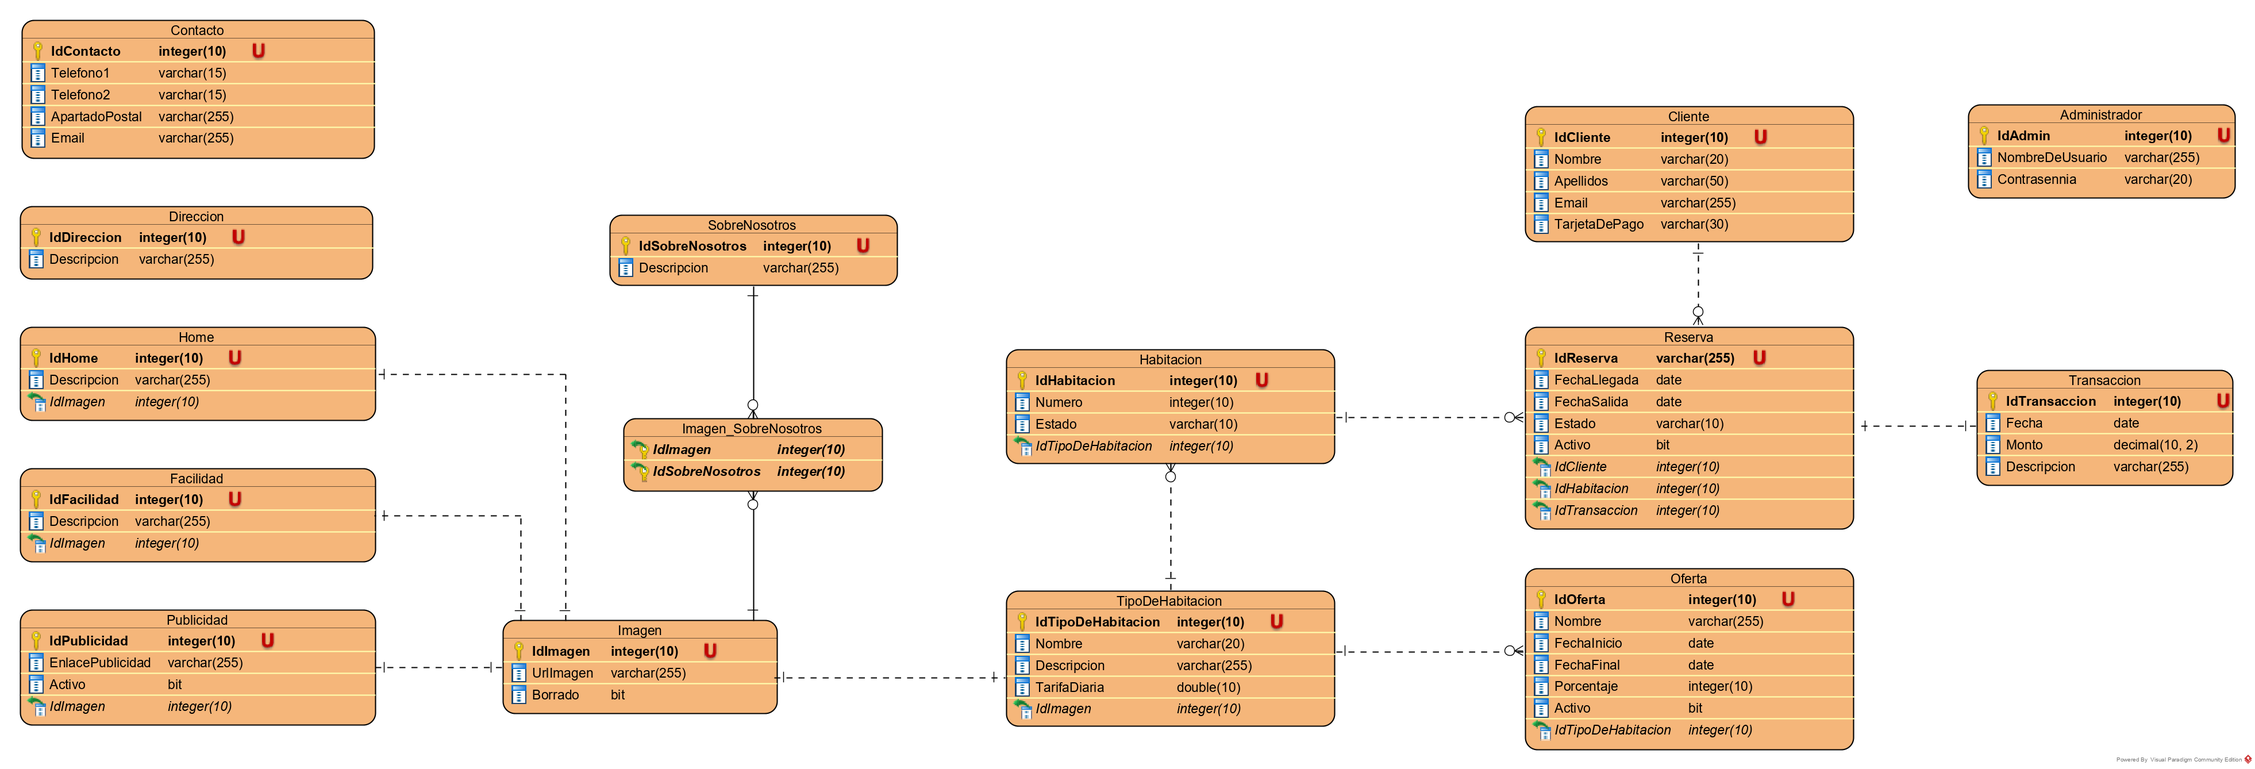
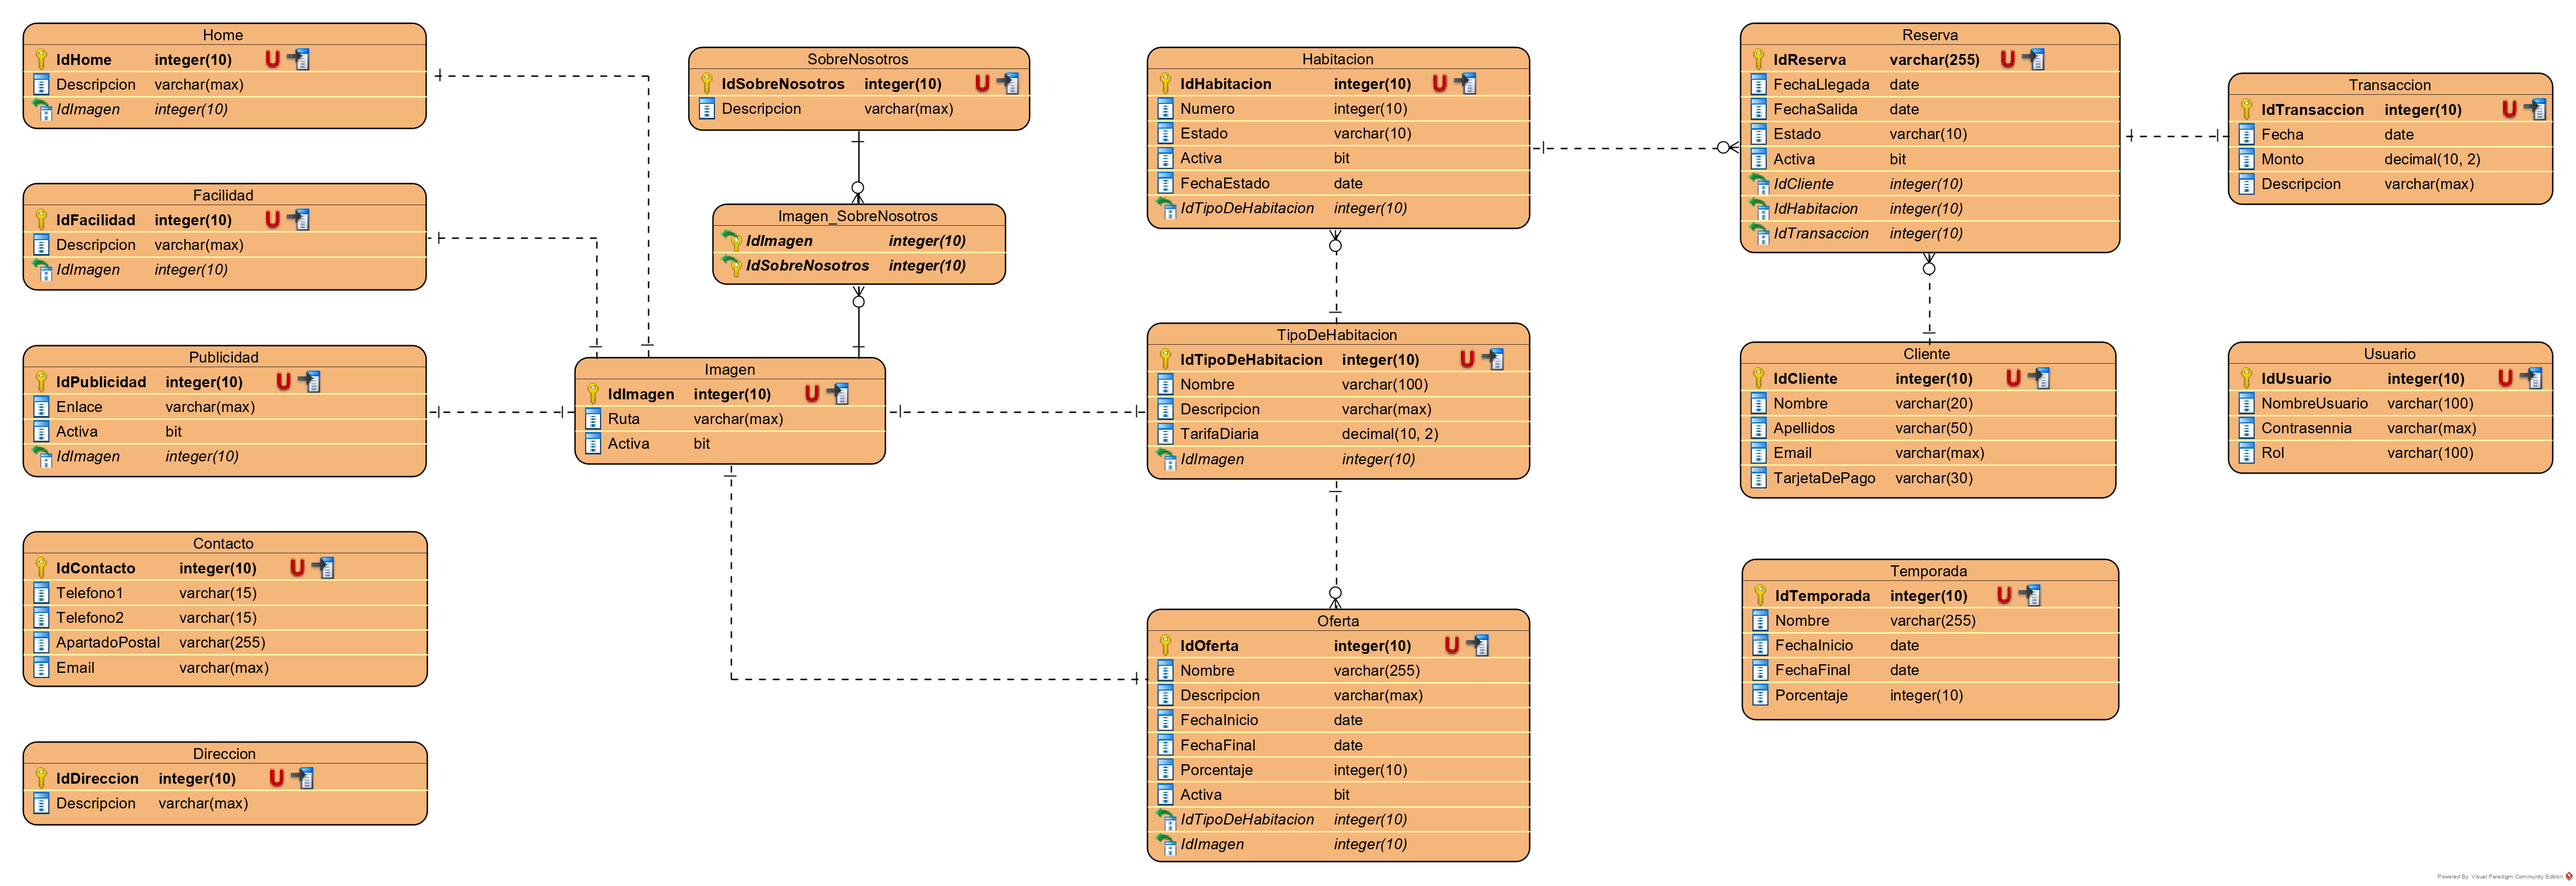
Modificaciones en entidades y modelos

diff --git a/2025_GRUPO_JAHE_BACKEND/Infraestructura/Repositorios/PublicidadRepositorio.cs b/2025_GRUPO_JAHE_BACKEND/Infraestructura/Repositorios/PublicidadRepositorio.cs
@@ -5,18 +5,25 @@ using System.Text;
 using System.Threading.Tasks;
 using Dominio.Entidades;
 using Dominio.Interfaces;
+using Infraestructura.Nucleo;
 using Infraestructura.Persistencia;
 using Microsoft.EntityFrameworkCore;
 
 namespace Infraestructura.Repositorios
 {
-    public class PublicidadRepositorio : IPublicidadRepositorio
+    public class PublicidadRepositorio : BaseRepositorio<Publicidad>, IPublicidadRepositorio
     {
         private readonly ContextoDbSQLServer _contexto;
 
-        public PublicidadRepositorio(ContextoDbSQLServer contexto)
+        public PublicidadRepositorio(ContextoDbSQLServer contexto) : base(contexto)
         {
             _contexto = contexto;
+        }
+
+        public new async Task CrearAsync<Publicidad>(Publicidad entity) where Publicidad : class
+        {
+            if (entity == null) throw new ArgumentNullException(nameof(entity));
+            await _contexto.Set<T>().AddAsync(entity);
         }
 
         public async Task<List<Publicidad>> VerPublicidadesActivas()
@@ -25,7 +32,7 @@ namespace Infraestructura.Repositorios
             {
                 var publicidades = await this._contexto.Publicidades
                     .Include(publicidades => publicidades.Imagen)
-                    .Where(publicidad => publicidad.Imagen!.Eliminado == false)
+                    .Where(publicidad => publicidad.Imagen!.Activa == false)
                     .Where(publicidad => publicidad.Activo == true)
                     .ToListAsync();
 

diff --git a/2025_GRUPO_JAHE_BACKEND/Aplicacion/Servicios/HabitacionServicio.cs b/2025_GRUPO_JAHE_BACKEND/Aplicacion/Servicios/HabitacionServicio.cs
@@ -19,7 +19,7 @@ namespace Aplicacion.Servicios
             this._habitacionRepositorio = habitacionRepositorio;
         }
 
-        public async Task<ResultadoConsultaHabitacionDTO> ConsultarDisponibilidadDeHabitaciones(int[] idTiposHabitacion, 
+        public async Task<RespuestaConsultaTablaDTO<HabitacionConsultaDTO>> ConsultarDisponibilidadDeHabitaciones(int[] idTiposHabitacion, 
             DateTime fechaLlegada, DateTime fechaSalida, int numeroDePagina, int maximoDeDatos, bool irALaUltimaPagina)
         {
             var resultado = await this._habitacionRepositorio.ConsultarDisponibilidadDeHabitaciones(idTiposHabitacion,
@@ -28,9 +28,9 @@ namespace Aplicacion.Servicios
             if (resultado.habitaciones == null)
                 throw new Exception("No se encontraron datos.");
 
-            return new ResultadoConsultaHabitacionDTO
+            return new RespuestaConsultaTablaDTO<HabitacionConsultaDTO>
             {
-                Habitaciones = resultado.habitaciones.Select(h => new HabitacionConsultaDTO 
+                Lista = resultado.habitaciones.Select(h => new HabitacionConsultaDTO 
                     {
                         IdHabitacion = h.IdHabitacion,
                         Numero = h.Numero,

diff --git a/2025_GRUPO_JAHE_BACKEND/Dominio/Entidades/Contacto.cs b/2025_GRUPO_JAHE_BACKEND/Dominio/Entidades/Contacto.cs
@@ -2,9 +2,6 @@
 using System.Collections.Generic;
 using System.ComponentModel.DataAnnotations;
 using System.ComponentModel.DataAnnotations.Schema;
-using System.Linq;
-using System.Text;
-using System.Threading.Tasks;
 
 namespace Dominio.Entidades
 {
@@ -13,15 +10,18 @@ namespace Dominio.Entidades
     {
         [Key]
         [DatabaseGenerated(DatabaseGeneratedOption.Identity)]
-        [Column("IdContacto")]
         public int IdContacto { get; set; }
-        [Column("Telefono1", TypeName = "nvarchar(max)")]
-        public string Telefono1 { get; set; }
-        [Column("Telefono2", TypeName = "nvarchar(max)")]
-        public string Telefono2 { get; set; }
-        [Column("ApartadoPostal", TypeName = "nvarchar(max)")]
-        public string ApartadoPostal { get; set; }
-        [Column("Email", TypeName = "nvarchar(max)")]
-        public string Email { get; set; }
+
+        [Required]
+        public string Telefono1 { get; set; } = string.Empty;
+
+        [Required]
+        public string Telefono2 { get; set; } = string.Empty;
+
+        [Required]
+        public string ApartadoPostal { get; set; } = string.Empty;
+
+        [Required]
+        public string Email { get; set; } = string.Empty;
     }
 }

diff --git a/2025_GRUPO_JAHE_BACKEND/Dominio/Entidades/Direccion.cs b/2025_GRUPO_JAHE_BACKEND/Dominio/Entidades/Direccion.cs
@@ -1,10 +1,5 @@
-using System;
-using System.Collections.Generic;
-using System.ComponentModel.DataAnnotations.Schema;
+using System.ComponentModel.DataAnnotations.Schema;
 using System.ComponentModel.DataAnnotations;
-using System.Linq;
-using System.Text;
-using System.Threading.Tasks;
 
 namespace Dominio.Entidades
 {
@@ -13,8 +8,8 @@ namespace Dominio.Entidades
         [Key]
         [DatabaseGenerated(DatabaseGeneratedOption.Identity)]
         public int IdDireccion { get; set; }
+
         [Required]
-        [MaxLength(int.MaxValue)]
-        public string Descripcion { get; set; }
+        public string Descripcion { get; set; } = string.Empty;
     }
 }

diff --git a/2025_GRUPO_JAHE_BACKEND/Infraestructura/Nucleo/BaseRepositorio.cs b/2025_GRUPO_JAHE_BACKEND/Infraestructura/Nucleo/BaseRepositorio.cs
@@ -9,12 +9,12 @@ using Microsoft.EntityFrameworkCore;
 
 namespace Infraestructura.Nucleo
 {
-    public class Repository<TEntity> : IRepository<TEntity> where TEntity : class
+    public class BaseRepositorio<TEntity> : IRepositorio<TEntity> where TEntity : class
     {
         private readonly DbContext _context;
         private readonly DbSet<TEntity> _dbSet;
 
-        public Repository(DbContext context)
+        public BaseRepositorio(DbContext context)
         {
             _context = context ?? throw new ArgumentNullException(nameof(context));
             _dbSet = _context.Set<TEntity>();

diff --git a/2025_GRUPO_JAHE_BACKEND/Dominio/Nucleo/IRepositorio.cs b/2025_GRUPO_JAHE_BACKEND/Dominio/Nucleo/IRepositorio.cs
@@ -1,0 +1,18 @@
+using System;
+using System.Collections.Generic;
+using System.Linq;
+using System.Linq.Expressions;
+using System.Text;
+using System.Threading.Tasks;
+
+namespace Dominio.Nucleo
+{
+    public interface IRepositorio<TEntity> where TEntity : class
+    {
+        public Task<IEnumerable<T>> GetAllAsync<T>(params Expression<Func<T, object>>[] includes) where T : class;
+        public Task CrearAsync<T>(T entity) where T : class;
+        public Task UpdateAsync<T>(T entity) where T : class;
+        public Task DeleteAsync<T>(T entity) where T : class;
+
+    }
+}

diff --git a/2025_GRUPO_JAHE_BACKEND/Dominio/Entidades/Facilidad.cs b/2025_GRUPO_JAHE_BACKEND/Dominio/Entidades/Facilidad.cs
@@ -1,10 +1,5 @@
-using System;
-using System.Collections.Generic;
-using System.ComponentModel.DataAnnotations;
+using System.ComponentModel.DataAnnotations;
 using System.ComponentModel.DataAnnotations.Schema;
-using System.Linq;
-using System.Text;
-using System.Threading.Tasks;
 
 namespace Dominio.Entidades
 {
@@ -16,7 +11,6 @@ namespace Dominio.Entidades
         public int IdFacilidad { get; set; }
 
         [Required]
-        [MaxLength(int.MaxValue)]
         public string Descripcion { get; set; } = string.Empty;
 
         // Clave foránea

diff --git a/2025_GRUPO_JAHE_BACKEND/Aplicacion/DTOs/RespuestaConsultaTablaDTO.cs b/2025_GRUPO_JAHE_BACKEND/Aplicacion/DTOs/RespuestaConsultaTablaDTO.cs
@@ -6,9 +6,9 @@ using System.Threading.Tasks;
 
 namespace Aplicacion.DTOs
 {
-    public class ResultadoConsultaHabitacionDTO
+    public class RespuestaConsultaTablaDTO<T>
     {
-        public IEnumerable<HabitacionConsultaDTO> Habitaciones { get; set; }
+        public IEnumerable<T>? Lista { get; set; }
         public int TotalRegistros { get; set; }
         public int PaginaActual { get; set; }
         public int TotalPaginas => (int)Math.Ceiling((double)TotalRegistros / MaximoPorPagina);

diff --git a/2025_GRUPO_JAHE_BACKEND/2025_GRUPO_JAHE_BACKEND/Controllers/HabitacionController.cs b/2025_GRUPO_JAHE_BACKEND/2025_GRUPO_JAHE_BACKEND/Controllers/HabitacionController.cs
@@ -20,7 +20,7 @@ namespace _2025_GRUPO_JAHE_BACKEND.Controllers
         // GET: api/<FacilidadController>
         [Authorize]
         [HttpPost("ConsultaHabitaciones")]
-        public async Task<ActionResult<ResultadoConsultaHabitacionDTO>> Get(ConsultaHabitacionesParametrosDTO parametrosDTO)
+        public async Task<ActionResult<RespuestaConsultaTablaDTO<HabitacionConsultaDTO>>> Get(ConsultaHabitacionesParametrosDTO parametrosDTO)
         {
             try
             {

diff --git a/2025_GRUPO_JAHE_BACKEND/Aplicacion/Interfaces/IHabitacionServicio.cs b/2025_GRUPO_JAHE_BACKEND/Aplicacion/Interfaces/IHabitacionServicio.cs
@@ -10,7 +10,7 @@ namespace Aplicacion.Interfaces
 {
     public interface IHabitacionServicio
     {
-        public Task<ResultadoConsultaHabitacionDTO> ConsultarDisponibilidadDeHabitaciones(int[] idTiposHabitacion,
+        public Task<RespuestaConsultaTablaDTO<HabitacionConsultaDTO>> ConsultarDisponibilidadDeHabitaciones(int[] idTiposHabitacion,
             DateTime fechaLlegada, DateTime fechaSalida, int numeroDePagina, int maximoDeDatos, bool irALaUltimaPagina);
     }
 }

diff --git a/2025_GRUPO_JAHE_BACKEND/Dominio/Entidades/Habitacion.cs b/2025_GRUPO_JAHE_BACKEND/Dominio/Entidades/Habitacion.cs
@@ -21,10 +21,13 @@ namespace Dominio.Entidades
         [Required]
         public string Estado { get; set; } = string.Empty;
 
+        public bool Activa { get; set; } = true;
+
+        public DateTime FechaEstado { get; set; }
+
         [ForeignKey("TipoDeHabitacion")]
         public int IdTipoDeHabitacion { get; set; }
 
         public TipoDeHabitacion TipoDeHabitacion { get; set; } = null!;
-
     }
 }

diff --git a/2025_GRUPO_JAHE_BACKEND/Dominio/Entidades/Cliente.cs b/2025_GRUPO_JAHE_BACKEND/Dominio/Entidades/Cliente.cs
@@ -2,9 +2,6 @@
 using System.Collections.Generic;
 using System.ComponentModel.DataAnnotations;
 using System.ComponentModel.DataAnnotations.Schema;
-using System.Linq;
-using System.Text;
-using System.Threading.Tasks;
 
 namespace Dominio.Entidades
 {
@@ -26,6 +23,5 @@ namespace Dominio.Entidades
 
         [Required]
         public string TarjetaDePago { get; set; } = string.Empty;
-
     }
 }
